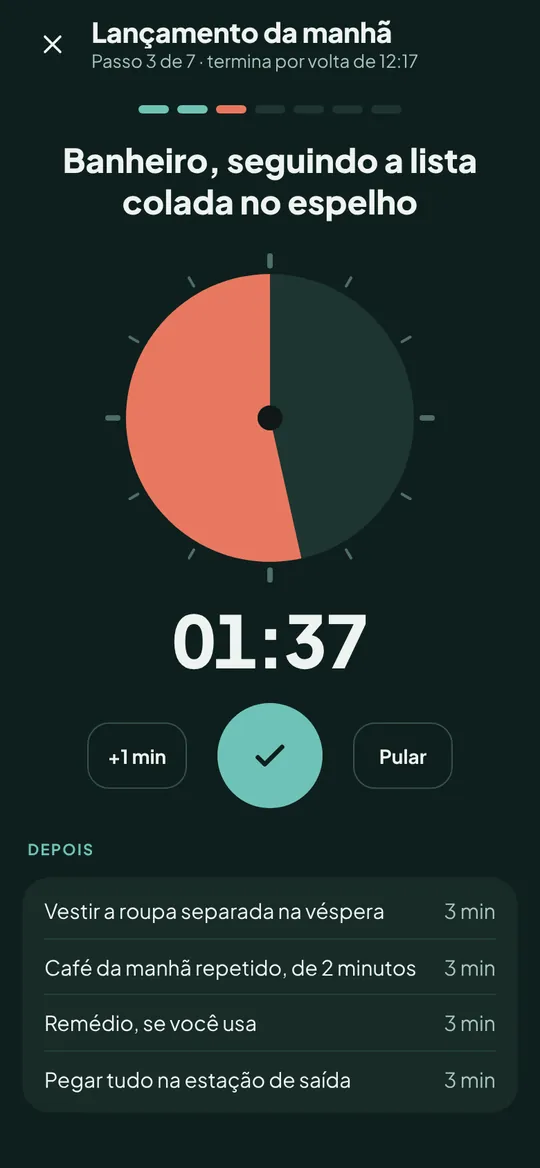
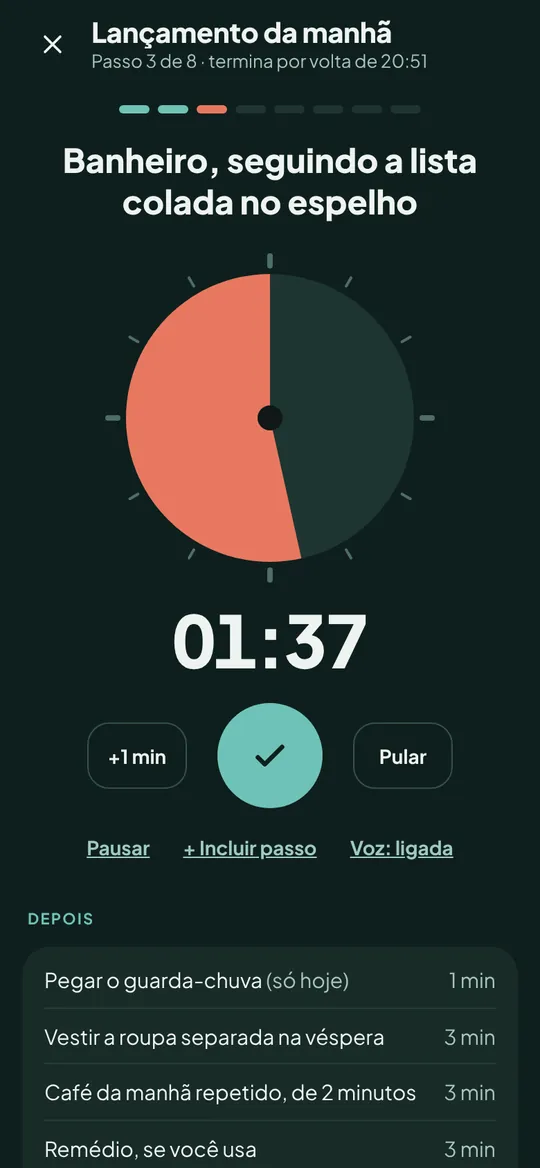
Tutorial: versão 2.1 (calendário, rotina guiada com voz, pontos)
Claude-Session: https://claude.ai/code/session_01Rs3GPLpWNhTN5yiAapCfrm

diff --git a/como-usar/index.html b/como-usar/index.html
@@ -4,9 +4,9 @@
 <meta charset="utf-8">
 <meta name="viewport" content="width=device-width, initial-scale=1, viewport-fit=cover">
 <title>Como usar o TDAH na Vida Real · tutorial guiado</title>
-<meta name="description" content="Tutorial guiado do app TDAH na Vida Real: 23 lições curtas, com a tela e o passo a passo de cada função.">
+<meta name="description" content="Tutorial guiado do app TDAH na Vida Real: 24 lições curtas, com a tela e o passo a passo de cada função.">
 <meta property="og:title" content="Como usar o TDAH na Vida Real">
-<meta property="og:description" content="Tutorial guiado: 23 lições curtas, com a tela e o passo a passo de cada função do app.">
+<meta property="og:description" content="Tutorial guiado: 24 lições curtas, com a tela e o passo a passo de cada função do app.">
 <meta property="og:image" content="https://cidedson.github.io/como-usar/img/capa.png">
 <meta property="og:type" content="website">
 <meta name="theme-color" content="#1f5f5b">
@@ -125,6 +125,12 @@ const L = [
     'Prazo até amanhã sobe sozinho para urgente.',
     'Use os filtros do topo para ver só Casa, Trabalho, Saúde…'],
     'O que fica 7 dias na Solta vai para “Talvez um dia”, sem culpa.'],
+  ['calendario', 'Tarefas', 'Calendário da semana', 'calendario', 'Os próximos 7 dias numa tela só.', [
+    'Toque em <b>Semana</b> no Meu dia, ou abra o menu ☰ › <b>Calendário</b>.',
+    'Cada dia mostra os compromissos da agenda, as tarefas com prazo e os lembretes, por horário.',
+    'Para criar uma tarefa num dia, toque no <b>+</b> daquele dia.',
+    'Para mudar uma tarefa de dia, toque no ícone de calendário ao lado dela e escolha o novo dia.'],
+    'As tarefas atrasadas aparecem em cima, sem bronca: é só escolher um dia novo.'],
   ['fatiar', 'Tarefas', 'Fatiar tarefa grande', 'nova-tarefa-ia', 'Tarefa grande trava. Passo de 10 minutos, não.', [
     'Com a IA ligada, escreva a tarefa grande: “declarar o imposto de renda até dia 30”.',
     'A IA devolve o prazo, a categoria e passos de 5 a 25 minutos.',
@@ -148,7 +154,7 @@ const L = [
     'A tela mostra só o passo atual. Ideia boa no meio? <b>Estacionar uma ideia</b>.',
     'No fim toca o sino, mesmo com a tela apagada.',
     'Diga se terminou: o passo é marcado e o próximo aparece.'],
-    'Dá para pausar, parar ou ganhar <b>+5 min</b> a qualquer hora.'],
+    'Durante o bloco a tela fica acesa e a barra de notificações mostra quanto falta. Dá para desligar em Ajustes › Bloco de foco.'],
   ['disco', 'Foco', 'Tempo visual e focar junto', 'foco-disco', 'Enxergar o tempo e ter companhia ajudam a não desviar.', [
     'Durante o bloco, toque em <b>Ver como disco (tempo visual)</b>: o vermelho vai diminuindo.',
     'Para focar com alguém, toque em <b>Chamar alguém para focar junto</b>. Vai um convite pelo WhatsApp com o horário.',
@@ -169,11 +175,12 @@ const L = [
     'Marque os passos, ou use a <b>Versão mínima</b> em dia difícil.',
     'Em <b>Lembrete diário</b>, escolha o horário.',
     'No fim, toque em <b>Concluí a rotina</b>.']],
-  ['guiada', 'Rotinas', 'Rotina guiada', 'rotina-guiada', 'Um passo por vez, com o tempo de cada um.', [
-    'Na rotina, toque em <b>Começar guiada</b>.',
-    'Aparece um passo por vez, com o tempo dele no disco.',
-    '<b>Feito</b> vai para o próximo. <b>Pular</b> e <b>+1 min</b> quando precisar.',
-    'Passou do tempo? Ele conta para cima, sem bronca.'],
+  ['guiada', 'Rotinas', 'Rotina guiada', 'rotina-guiada', 'Um passo por vez, com o tempo de cada um, e o app falando.', [
+    'Na rotina, escolha se quer <b>Falar os passos</b> e <b>Avançar sozinho</b>, e toque em <b>Começar guiada</b>.',
+    'Aparece um passo por vez, com o tempo dele no disco, e o app diz o que fazer.',
+    '<b>Feito</b> vai para o próximo. <b>Pular</b>, <b>+1 min</b> e <b>Pausar</b> quando precisar.',
+    'Apareceu algo a mais? <b>+ Incluir passo</b> põe um passo só nesta vez.',
+    'Passou do tempo? Ele conta para cima, sem bronca. Com <b>Avançar sozinho</b>, vai para o próximo mesmo com o celular bloqueado.'],
     'Os minutos de cada passo mudam em <b>Editar esta rotina</b>.'],
   ['semana', 'Acompanhar', 'Resumo da semana', 'semana', 'Olhar para trás sem julgamento.', [
     'Domingo às 19h chega o resumo: tarefas, prioridades, remédios, humor e tempo de foco.',
@@ -183,7 +190,8 @@ const L = [
     'Tarefa, passo, remédio, bloco de foco e rotina valem pontos.',
     'Os pontos sobem de nível. Toque no troféu do topo para ver.',
     'Crie recompensas com preço, como “pedir uma pizza: 150”.',
-    'Juntou moedas? <b>Resgatar</b>. Gastar não tira nível.'],
+    'Juntou moedas? <b>Resgatar</b>. Gastar não tira nível.',
+    'Tarefa parada vale mais (na matriz aparece “vale 15 pts”), e o <b>dia perfeito</b> vale +20: prioridades feitas e remédios marcados.'],
     'Um dia sem nada não quebra a sequência. Ninguém perde ponto.'],
   ['buscar', 'Acompanhar', 'Buscar em tudo', 'busca', 'Lembra que anotou, mas não sabe onde?', [
     'Toque na lupa no topo do Hoje.',
@@ -228,8 +236,9 @@ const ALT = {
   'foco-disco': 'Bloco de foco com o disco vermelho de tempo visual e a mensagem Focando junto',
   'foco-fim': 'Bloco concluído com as 4 bolinhas cheias e o botão de pausa longa de 15 minutos',
   'foco-ajustes': 'Ajustes do bloco de foco com a opção Não perturbe durante o foco',
-  'rotina-detalhe': 'Rotina Lançamento da manhã com o botão Começar guiada e a lista de passos',
-  'rotina-guiada': 'Rotina guiada no passo 3 de 7, com o disco de tempo e os próximos passos',
+  'rotina-detalhe': 'Rotina Lançamento da manhã com o botão Começar guiada e as opções Falar os passos e Avançar sozinho',
+  calendario: 'Calendário dos próximos 7 dias com a consulta médica, tarefas com horário e a reunião de pais',
+  'rotina-guiada': 'Rotina guiada no passo 3 de 8, com o disco de tempo, Pausar, Incluir passo, Voz e os próximos passos',
   semana: 'Resumo da semana com tarefas concluídas, 3 do dia, remédios, humor e o dia que mais rendeu',
   pontos: 'Tela Pontos e recompensas com nível 3, dias seguidos, moedas e recompensas',
   busca: 'Busca por “agua” mostrando resultados em Rotinas e no Guia',
@@ -252,7 +261,7 @@ function index() {
   const started = Object.keys(seen).length > 0;
   let i = 0;
   const chaps = chapters.map(c => `<section class="chap"><h2>${c}</h2><div class="list">${L.filter(l => l[1] === c).map(l => { i = L.indexOf(l) + 1; return `<a href="#${l[0]}" class="${seen[l[0]] ? 'seen' : ''}"><span class="n">${seen[l[0]] ? '✓' : i}</span><span class="t">${l[2]}</span><span class="arr">›</span></a>`; }).join('')}</div></section>`).join('');
-  app.innerHTML = `<header class="hero"><div class="wrap"><p class="eyebrow">Tutorial guiado · versão 2.0</p><h1>Como usar o TDAH na Vida Real</h1>
+  app.innerHTML = `<header class="hero"><div class="wrap"><p class="eyebrow">Tutorial guiado · versão 2.1</p><h1>Como usar o TDAH na Vida Real</h1>
     <p>${L.length} lições curtas, uns 10 minutos. Cada uma mostra a tela e o passo a passo. Dá para parar e voltar depois: o tutorial lembra onde você parou.</p>
     <div class="go"><a class="btn light" href="#${(next || L[0])[0]}">${started && next ? 'Continuar de onde parei' : 'Começar o tutorial'}</a><a class="btn ghost" href="https://github.com/cidedson/tdah-vida-real/releases/latest">Baixar o app</a></div></div></header>
     <main class="wrap"><div class="chaps">${chaps}</div>
